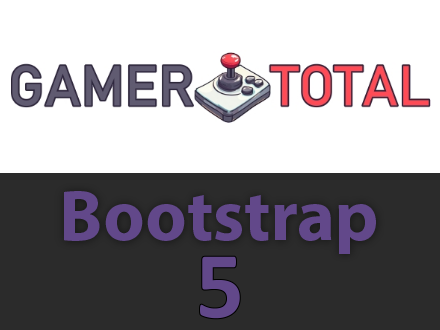
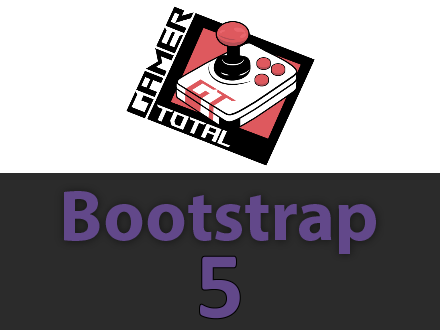
ajustes nuevo tema

Changed region(s): [[0.0, 0.0, 1.0, 0.5152]]

diff --git a/wp-content/themes/Bootstrap54/style.css b/wp-content/themes/Bootstrap54/style.css
@@ -1,15 +1,14 @@
 a {
   text-decoration: none !important;
-  color: #4A4B4C;
+  color: #fff;
 }
 
 a:hover {
   text-decoration: none !important;
-  color: #4A4B4C;
+  color: #fff;
 }
 
-body
-{
+body {
   background-color: #000;
   color: #fff;
 }
@@ -40,13 +39,11 @@ hr {
 
 /* HEADER */
 
-.background_logo
-{
+.background_logo {
   background-color: #DF5A5F;
 }
 
-#logo
-{
+#logo {
   max-height: 150px;
 }
 
@@ -170,19 +167,19 @@ hr {
   padding-top: 8px;
 }
 
-.noticias
-{
+.noticias h1 {
   font-family: 'Open Sans', sans-serif;
   font-weight: 400;
-}
-
-.noticias h1 {
-  font-size: 1.4rem;  
+  color: #fff;
+  font-size: 1.4rem;
   margin-top: 1rem;
   margin-bottom: 1rem;
 }
 
 .noticias h2 {
+  font-family: 'Open Sans', sans-serif;
+  font-weight: 400;
+  color: #fff;
   font-size: 1.4rem;
   margin-top: 1rem;
   margin-bottom: 1rem;
@@ -190,7 +187,21 @@ hr {
 }
 
 .noticias h3 {
-  font-size: 1.4rem;
+  font-family: 'Open Sans', sans-serif;
+  font-weight: 400;
+  color: #fff;
+  font-size: 15px;
+  line-height: 1.4rem;
+  margin-top: 1rem;
+  margin-bottom: 1rem;
+  margin-right: 1rem;
+}
+
+.noticias h4 {
+  font-family: 'Open Sans', sans-serif;
+  font-weight: 400;
+  color: #fff;
+  font-size: 20px;
   line-height: 1.4rem;
   margin-top: 1rem;
   margin-bottom: 1rem;
@@ -322,6 +333,11 @@ footer p {
   .noticias h2 {
     font-size: 1.3rem;
     margin-bottom: 0.5rem;
+  }
+
+  .noticias h3 {
+    margin-right: 0.5rem;
+    margin-left: 0.5rem;
   }
 
 

diff --git a/wp-content/themes/Bootstrap54/notas_1.php b/wp-content/themes/Bootstrap54/notas_1.php
@@ -7,12 +7,12 @@
         while ($query->have_posts()) : $query->the_post();
         ?>
 
-            <div class="col-7-lg">
+            <div class="col-lg-7 mb-4 mb-lg-0">
                 <a href="<?php the_permalink(); ?>" alt="<?php the_title_attribute(); ?>">
                     <article itemscope itemtype="http://schema.org/BlogPosting">
                         <?php the_post_thumbnail('medium_large', ['alt' => get_the_title(), 'loading' => 'eager', 'class' => 'img-fluid rounded-top-4 border border-white border-2 border-bottom-0 border-end-0']); ?>
                         <div class="rounded-bottom-4 border border-white border-2 border-top-0 border-bottom-0 border-end-0" style="background-color: #00001A">
-                            <h2 itemprop="headline" class="m-0 p-4 text-center" style="color:white"><?php the_title_attribute(); ?></h2>
+                            <h2 itemprop="headline" class="m-0 p-4 text-center"><?php the_title_attribute(); ?></h2>
                         </div>
                         <link itemprop="url" href="<?php the_permalink(); ?>">
                     </article>
@@ -21,28 +21,28 @@
 
         <?php endwhile; ?>
 
-        <div class="col-5">
+        <div class="col-lg-5">
             <div class="border border-2 p-3" style="border-color: rgba(228, 76, 91, 0.2) !important;">
                 <?php
                 $query = new WP_Query(array('showposts' => 3, 'offset' => 1, 'category__in' => 1));
                 while ($query->have_posts()) : $query->the_post();
                 ?>
                     <div class="mb-3" style="border-color: #E44C5B!important; border-width: 2px!important; border-style: solid; background: linear-gradient(to right, #7D1377, #101126);">
-                        <div class="row">
+                        <article itemscope itemtype="http://schema.org/BlogPosting">
                             <a href="<?php the_permalink(); ?>" alt="<?php the_title_attribute(); ?>">
-                                <article itemscope itemtype="http://schema.org/BlogPosting">
-                                    <div class="col">
+                                <div class="row">
+                                    <div class="col-lg">
                                         <?php the_post_thumbnail('medium_large', ['alt' => get_the_title(), 'loading' => 'eager', 'class' => 'img-fluid']); ?>
                                     </div>
-                                    <div class="col">
+                                    <div class="col-lg">
                                         <div class="d-flex align-items-center" style="height: 100%;">
                                             <h3 itemprop="headline"><?php the_title_attribute(); ?></h3>
                                         </div>
                                     </div>
                                     <link itemprop="url" href="<?php the_permalink(); ?>">
-                                </article>
+                                </div>
                             </a>
-                        </div>
+                        </article>
                     </div>
                 <?php endwhile; ?>
             </div>

diff --git a/wp-content/themes/Bootstrap54/menu.php b/wp-content/themes/Bootstrap54/menu.php
@@ -4,11 +4,11 @@
         <div class="row align-items-center">
             <div class="col-1 background_logo">
                 <a href="https://www.gamertotal.com.ar/" target="_self">
-                    <img loading="eager" src="https://www.gamertotal.com.ar/wp-content/themes/Bootstrap54/images/logo.jpg" class="img-fluid mx-auto d-block" id="logo" alt="logo Gamer Total">
+                    <img loading="eager" src="https://www.gamertotal.com.ar/wp-content/themes/Bootstrap54/images/logo.png" class="img-fluid mx-auto d-block" id="logo" alt="logo Gamer Total">
                 </a>
             </div>
             <div class="col-5 offset-6 mt-5">
-                <nav class="navbar navbar-expand-lg bg-dark d-none d-md-block" style="padding: 0; background-color:#000 !important;">
+                <nav class="navbar navbar-expand-lg d-none d-md-block" style="padding: 0;">
                     <div class="container p-0">
                         <button class="navbar-toggler" type="button" data-bs-toggle="collapse" data-bs-target="#navbarSupportedContent" aria-controls="navbarSupportedContent" aria-expanded="false" aria-label="Toggle navigation"><span class="navbar-toggler-icon"></span></button>
                         <div class="collapse navbar-collapse" id="navbarSupportedContent">

diff --git a/wp-content/themes/Bootstrap54/menu_celular.php b/wp-content/themes/Bootstrap54/menu_celular.php
@@ -5,7 +5,7 @@
             <div class="col">
                 <div class="dropdown">
                     <a href="https://www.gamertotal.com.ar/" target="_self">
-                        <img loading="eager" src="https://www.gamertotal.com.ar/wp-content/themes/Bootstrap54/images/logo.jpg" class="img-fluid mx-auto d-block" id="logo" alt="logo Gamer Total">
+                        <img loading="eager" src="https://www.gamertotal.com.ar/wp-content/themes/Bootstrap54/images/logo.png" class="img-fluid mx-auto d-block" id="logo" alt="logo Gamer Total">
                     </a>
                     <ul class="dropdown-menu text-small shadow text-center">
                         <li class="nav-item"><a class="nav-link" style="color: #99183D;" href="https://www.gamertotal.com.ar/category/actualizaciones/">Actualizaciones</a></li>
@@ -20,13 +20,4 @@
         </div>
     </div>
 </nav>
-
-<div class="container"">
-    <div id="progress2">
-        <div class="progress2-container">
-            <div class="progress2-bar" id="myBar" style="width: 0%;"></div>
-        </div>
-    </div>
-</div>
-
 </header>

diff --git a/wp-content/themes/Bootstrap54/menu_celular_inside.php b/wp-content/themes/Bootstrap54/menu_celular_inside.php
@@ -5,7 +5,7 @@
             <div class="col">
                 <div class="dropdown">
                     <a href="https://www.gamertotal.com.ar/" class="d-flex align-items-center link-dark text-decoration-none dropdown-toggle" data-bs-toggle="dropdown" aria-expanded="false">
-                        <img class="img-fluid" style="display:block; margin:auto; max-width: 193px;" loading="eager" src="https://www.gamertotal.com.ar/wp-content/themes/Bootstrap53/images/logo.jpg" alt="Logo">
+                        <img class="img-fluid" style="display:block; margin:auto; max-width: 193px;" loading="eager" src="https://www.gamertotal.com.ar/wp-content/themes/Bootstrap54/images/logo.png" alt="Logo">
                     </a>
                     <ul class="dropdown-menu text-small shadow text-center">
                         <li class="nav-item"><a class="nav-link" style="color: #99183D;" href="https://www.gamertotal.com.ar/category/actualizaciones/">Actualizaciones</a></li>

diff --git a/wp-content/themes/Bootstrap54/notas_2.php b/wp-content/themes/Bootstrap54/notas_2.php
@@ -12,7 +12,7 @@
                     <article itemscope itemtype="http://schema.org/BlogPosting">
                         <?php the_post_thumbnail('medium_large', ['alt' => get_the_title(), 'loading' => 'lazy', 'class' => 'img-fluid rounded-top-4']); ?>
                         <div class="rounded-bottom-4 " style="background-image: linear-gradient(to bottom, rgba(0, 0, 26, 1), rgba(0, 0, 26, 1), rgba(0, 0, 26, 0));">
-                            <h3 itemprop="headline" class="m-0 p-4"><?php the_title_attribute(); ?></h2>
+                            <h4 itemprop="headline" class="m-0 p-4"><?php the_title_attribute(); ?></h4>
                         </div>
                         <link itemprop="url" href="<?php the_permalink(); ?>">
                     </article>

diff --git a/wp-content/themes/Bootstrap54/notas_3.php b/wp-content/themes/Bootstrap54/notas_3.php
@@ -12,7 +12,7 @@
                     <article itemscope itemtype="http://schema.org/BlogPosting">
                         <?php the_post_thumbnail('medium_large', ['alt' => get_the_title(), 'loading' => 'lazy', 'class' => 'img-fluid rounded-top-4']); ?>
                         <div class="rounded-bottom-4 " style="background-image: linear-gradient(to bottom, rgba(0, 0, 26, 1), rgba(0, 0, 26, 1), rgba(0, 0, 26, 0));">
-                            <h3 itemprop="headline" class="m-0 p-4"><?php the_title_attribute(); ?></h2>
+                            <h4 itemprop="headline" class="m-0 p-4"><?php the_title_attribute(); ?></h4>
                         </div>
                         <link itemprop="url" href="<?php the_permalink(); ?>">
                     </article>

diff --git a/wp-content/themes/Bootstrap54/notas_4.php b/wp-content/themes/Bootstrap54/notas_4.php
@@ -12,7 +12,7 @@
                     <article itemscope itemtype="http://schema.org/BlogPosting">
                         <?php the_post_thumbnail('medium_large', ['alt' => get_the_title(), 'loading' => 'lazy', 'class' => 'img-fluid rounded-top-4']); ?>
                         <div class="rounded-bottom-4 " style="background-image: linear-gradient(to bottom, rgba(0, 0, 26, 1), rgba(0, 0, 26, 1), rgba(0, 0, 26, 0));">
-                            <h3 itemprop="headline" class="m-0 p-4"><?php the_title_attribute(); ?></h2>
+                            <h4 itemprop="headline" class="m-0 p-4"><?php the_title_attribute(); ?></h4>
                         </div>
                         <link itemprop="url" href="<?php the_permalink(); ?>">
                     </article>

diff --git a/wp-content/themes/Bootstrap54/notas_5.php b/wp-content/themes/Bootstrap54/notas_5.php
@@ -12,7 +12,7 @@
                     <article itemscope itemtype="http://schema.org/BlogPosting">
                         <?php the_post_thumbnail('medium_large', ['alt' => get_the_title(), 'loading' => 'lazy', 'class' => 'img-fluid rounded-top-4']); ?>
                         <div class="rounded-bottom-4 " style="background-image: linear-gradient(to bottom, rgba(0, 0, 26, 1), rgba(0, 0, 26, 1), rgba(0, 0, 26, 0));">
-                            <h3 itemprop="headline" class="m-0 p-4"><?php the_title_attribute(); ?></h2>
+                            <h4 itemprop="headline" class="m-0 p-4"><?php the_title_attribute(); ?></h4>
                         </div>
                         <link itemprop="url" href="<?php the_permalink(); ?>">
                     </article>
